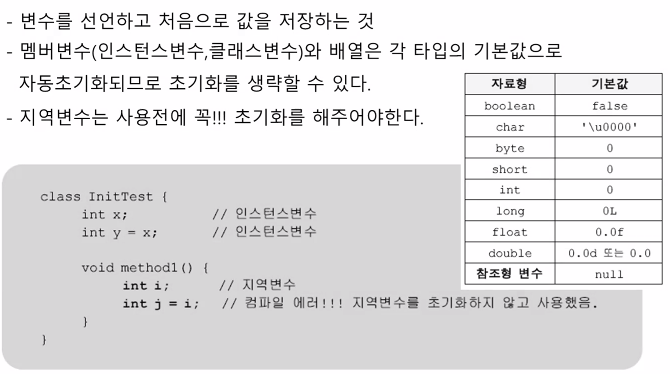
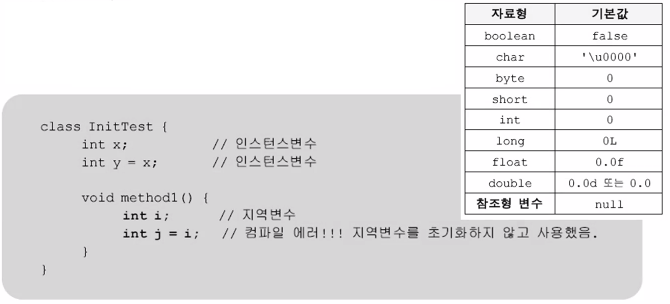
d

Changed region(s): [[0.0, 0.0, 1.0, 0.8289]]

diff --git a/_posts/KOSTA_274기_Fullstack/java/2024-01-30-객체지향개념1_3.md b/_posts/KOSTA_274기_Fullstack/java/2024-01-30-객체지향개념1_3.md
@@ -15,11 +15,11 @@ category: java
 - 몇가지 조건을 제외하고는 메서드와 같습니다.
 - 모든 클래스에는 반드시 하나 이상의 생성자가 있어야 합니다.
 
-`인스턴스 초기화 - 인스턴스 변수에 적잘한 값을 저장하는 것`
+`인스턴스 초기화 - 인스턴스 변수에 적절한 값을 저장하는 것`
 
 {: .notice}
 
-**Card c=  new card();**<br/><br/>1. 연산자 new에 의해서 메모리(heap)에 Card클래스의 인스턴스가 생성됩니다.<br/>2. 생성자 Card()가 호출되어 수행됩니다.<br/>3. 연산자 new의 결과로, 생성된 Card인스턴스의 주소가 반환되어 참조변수 c에 저장됩니다.
+**Card c=  new Card();**<br/><br/>1. 연산자 new에 의해서 메모리(heap)에 Card클래스의 인스턴스가 생성됩니다.<br/>2. 생성자 Card()가 호출되어 수행됩니다.<br/>3. 연산자 new의 결과로, 생성된 Card인스턴스의 주소가 반환되어 참조변수 c에 저장됩니다.
 
 ### 생성자의 조건 
 
@@ -86,6 +86,12 @@ main 함수에서 Calculator 객체를 생성자를 이용해서 생성했습니
 ## 변수의 초기화
 
 ### 변수의 초기화
+
+변수의 초기화란, 변수를 선언하고 처음으로 값을 저장하는 것을 말합니다.
+
+멤버변수(인스턴스 변수, 클래스 변수)와 배열은 각 타입의 기본 값으로 자동 초기화 되므로 초기화를 생략할 수 있습니다.
+
+지역변수는 사용전에 꼭! 초기화를 해주어야합니다.
 
 ![image-20240130163940715](/../../images/2024-01-30-객체지향개념3/image-20240130163940715.png)
 
